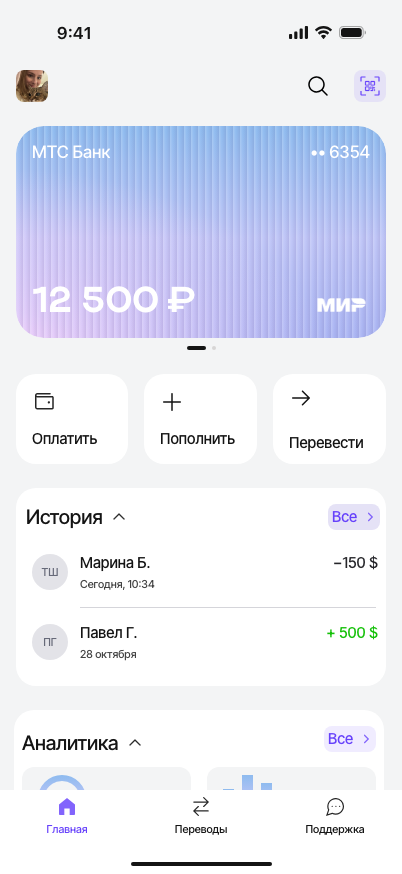
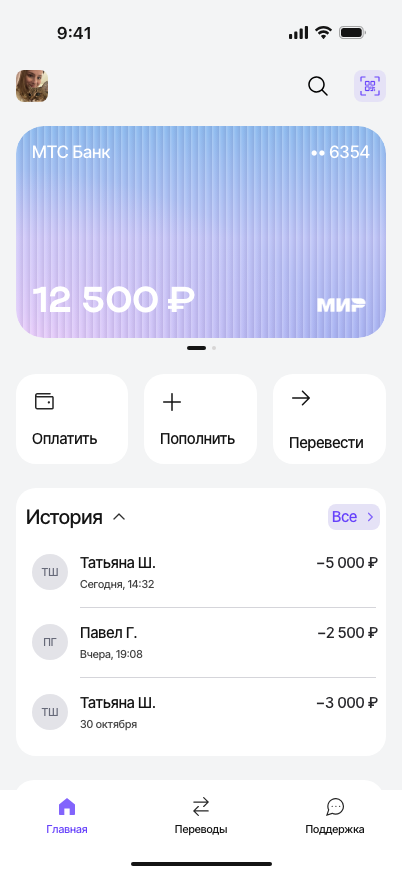
Fix ruble card opening history to match Figma

diff --git a/src/data.js b/src/data.js
@@ -11,9 +11,9 @@ export const demoData = {
     { id: 'marina', name: 'Марина Б.', subtitle: 'RU •• 6382', initials: 'М', color: '#e3e3e8', destination: 'RU •• 6382' },
   ],
   transactions: [
-    { id: 't1', cardId: 'debit', name: 'Марина Б.', initials: 'ТШ', color: '#e3e3e8', date: 'Сегодня, 10:34', amount: -150, currency: 'USD', status: 'Выполнен' },
-    { id: 't2', cardId: 'debit', name: 'Павел Г.', initials: 'ПГ', color: '#e3e3e8', date: '28 октября', amount: 500, currency: 'USD', status: 'Выполнен' },
-    { id: 't3', cardId: 'debit', name: 'Татьяна Ш.', initials: 'ТШ', color: '#c095fd', date: '30 октября', amount: -3000, status: 'Выполнен' },
+    { id: 't1', cardId: 'debit', name: 'Татьяна Ш.', initials: 'ТШ', color: '#e3e3e8', date: 'Сегодня, 14:32', amount: -5000, currency: 'RUB', status: 'Выполнен' },
+    { id: 't2', cardId: 'debit', name: 'Павел Г.', initials: 'ПГ', color: '#e3e3e8', date: 'Вчера, 19:08', amount: -2500, currency: 'RUB', status: 'Выполнен' },
+    { id: 't3', cardId: 'debit', name: 'Татьяна Ш.', initials: 'ТШ', color: '#e3e3e8', date: '30 октября', amount: -3000, currency: 'RUB', status: 'Выполнен' },
     { id: 't4', cardId: 'second', name: 'Мама', initials: 'М', color: '#d4b6ff', date: 'Сегодня, 10:15', amount: -1500, status: 'Выполнен' },
   ],
 };

diff --git a/tests/data.test.js b/tests/data.test.js
@@ -12,3 +12,16 @@ test('Each card displays its own operations', () => {
   assert.equal(operationsFor(demoData, 'second').length, 1);
   assert.deepEqual(operationsFor(demoData, 'missing'), []);
 });
+
+test('Ruble opening history matches Figma and new operations stay on their card', () => {
+  const original=operationsFor(demoData,'debit');
+  assert.deepEqual(original.map(t=>[t.name,t.amount,t.currency,t.date]),[
+    ['Татьяна Ш.',-5000,'RUB','Сегодня, 14:32'],
+    ['Павел Г.',-2500,'RUB','Вчера, 19:08'],
+    ['Татьяна Ш.',-3000,'RUB','30 октября'],
+  ]);
+  const data={transactions:[{id:'sent-rub',cardId:'debit',amount:-100,currency:'RUB'},{id:'topup-usd',cardId:'second',amount:50,currency:'USD'},...demoData.transactions]};
+  assert.equal(operationsFor(data,'debit')[0].id,'sent-rub');
+  assert.ok(operationsFor(data,'debit').every(t=>t.currency==='RUB'));
+  assert.equal(operationsFor(data,'second')[0].id,'topup-usd');
+});

diff --git a/src/home-screen.js b/src/home-screen.js
@@ -67,7 +67,7 @@ export function createHomeScreen({ data, onNavigate }) {
   }
   function renderOperations() {
     renderAnalytics();
-    list.innerHTML = operationsFor(data, data.cards[active].id).slice(0, 2).map(item => `
+    list.innerHTML = operationsFor(data, data.cards[active].id).slice(0, 3).map(item => `
       <button class="operation" data-operation="${escapeHTML(item.id)}">
         <span class="avatar" style="--avatar:${item.color}">${escapeHTML(item.initials)}</span>
         <span class="operation-copy"><span class="operation-name">${escapeHTML(item.name)}</span><span class="operation-date">${escapeHTML(item.date)}</span></span>
